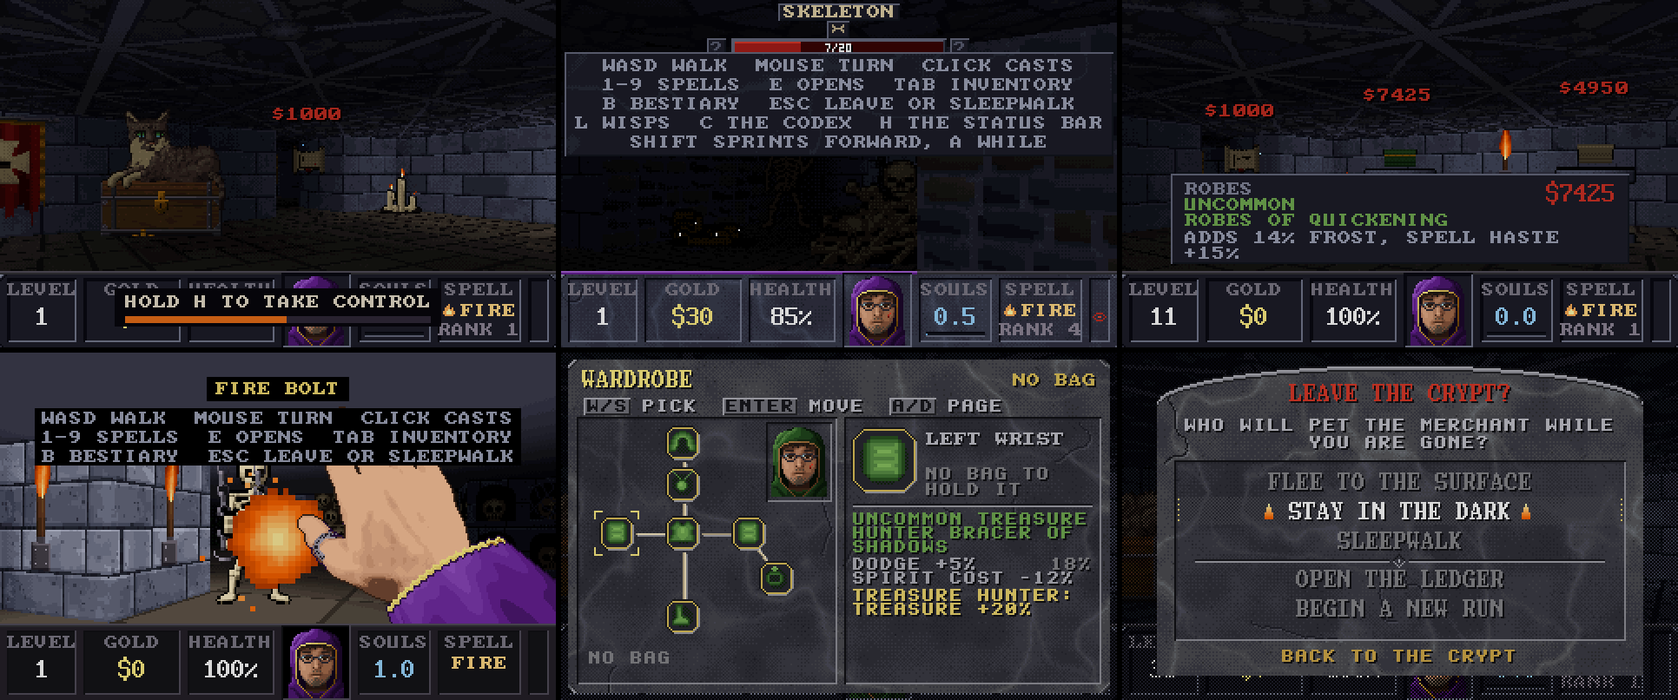
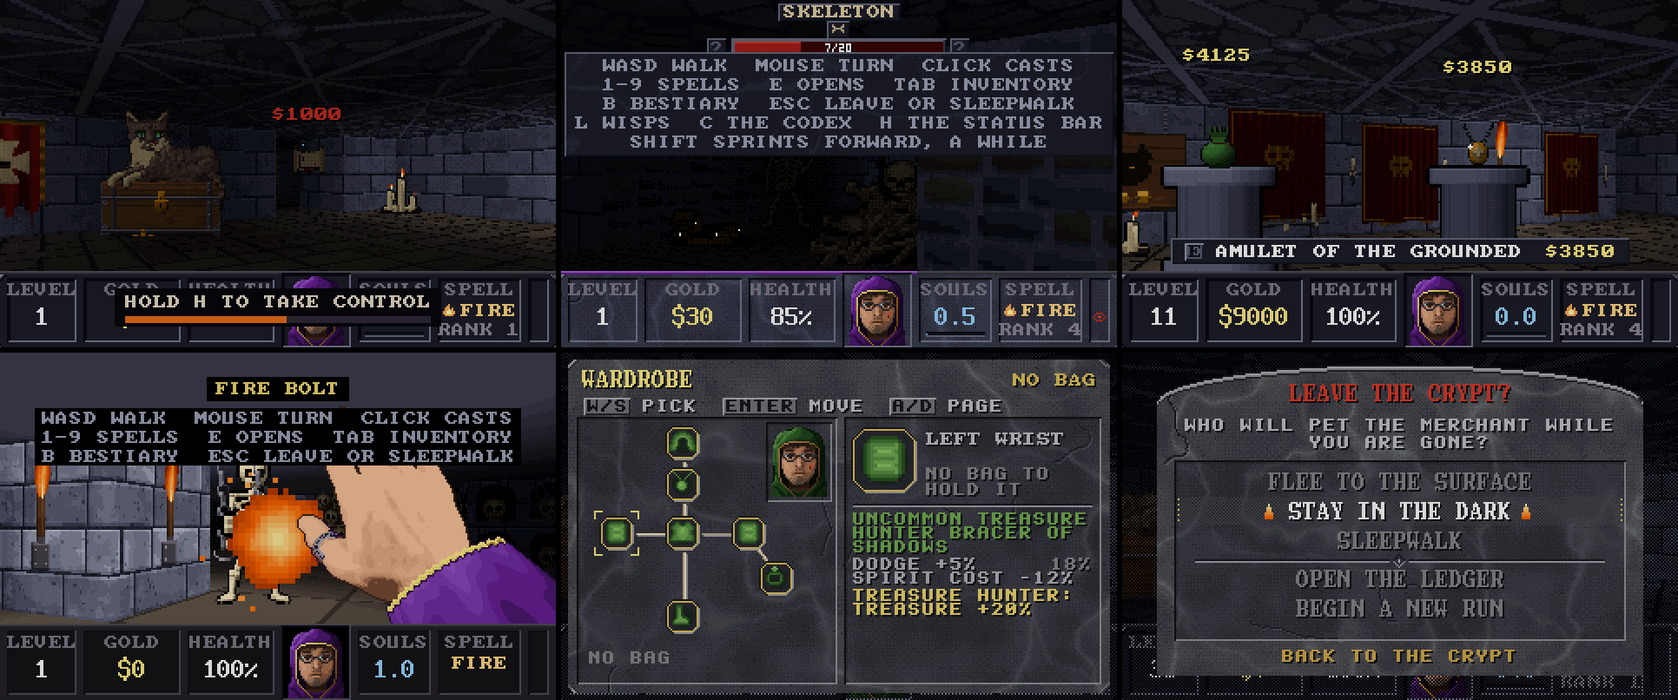
1.0.0b21.3: the release's words, strips and version
The README, the page and the release notes for "Her Wares, Weighed";
the frames that showed the old cards taken again (the items strip's
first, the shrine's first, the portraits' second, the play strip's
third); VERSION 1.0.0b21.3.

Claude-Session: https://claude.ai/code/session_017SN6xpMoV1Y5g6zBwL4B3X

diff --git a/site/index.html b/site/index.html
@@ -474,7 +474,7 @@ C:\&gt;<span id="cmd">HAUNTED.EXE</span><span class="cursor"></span></pre>
       <details>
         <summary>The merchant <span class="hint">two pedestals to seven</span></summary>
         <div class="fold">
-          <p>Each level begins in her room. A fresh run has two pedestals; more are bought from her menu, up to seven, and kept. She sells no spells now: every pedestal holds a thing to wear, and very rarely the first holds the BFS9000. One purchase a visit in the first run, two in the second, three from the third. A piece is worn the moment you buy it. You start without a bag; bags hold two to five spare pieces, and without one, what a new piece replaces is lost, so the card warns you first in red. With a full bag you are asked which spare to let go. <kbd>Q</kbd> holds a ware for your next visit. Runes aren't sold there.</p>
+          <p>Each level begins in her room. A fresh run has two pedestals; more are bought from her menu, up to seven, and kept. She sells no spells now: every pedestal holds a thing to wear, and very rarely the first holds the BFS9000. One purchase a visit in the first run, two in the second, three from the third. Walk up to a pedestal and its name and price show in a slim line at the foot of the view; <kbd>E</kbd> opens its buying: the ware, what you wear in its place now, each of your numbers it would change, now and after, the abilities gained and lost, and what becomes of the old piece. A piece is worn the moment you buy it. You start without a bag; bags hold two to five spare pieces, and without one, what a new piece replaces is lost, so the buying warns you in red and asks twice. With a full bag you are asked which spare to let go. <kbd>Q</kbd> holds a ware for your next visit, and <kbd>A</kbd> and <kbd>D</kbd> go round her other wares. Runes aren't sold there.</p>
         </div>
       </details>
       <details>
@@ -754,8 +754,8 @@ C:\&gt;<span id="cmd">HAUNTED.EXE</span><span class="cursor"></span></pre>
   <section aria-labelledby="hall">
     <h2 id="hall">The merchant's hall</h2>
     <p>Her room has grown. Past an arch beside her is a back room, past another the grave plot, and nothing in any of it is lost to death. Press <kbd>E</kbd> at the cat for her menu: sign the ledger, ascend, buy another pedestal (500 gold for the third, up to 19,530 for the seventh), offer a coin for Second Wind, pat her, or leave.</p>
-    <p><strong>The portraits of the slain</strong> <span class="hint">new in 1.0.0b21.2</span>. Her walls carry a portrait of every creature in the bestiary, the last third in the back room. Each hangs under an oxblood tapestry until one of its kind is slain; <kbd>E</kbd> draws it back, and the creature's shadow walks there. Each rank whose achievement you earn then walks in its colours on the stone of the run where you earned it, the frame takes the colour of the highest, and a candle lights each one. Every rank unlocked pays its gold once a life, at any visit to her room once a level is cleared, and again on waking after a death: from 100 to 1,200 a rank, 67,240 for her walls whole. The Spectre and the Wraith open theirs by being laid to rest and driven back, and every creature that can be slain has a feat (skeletons slain before they ever throw, the Sexton with his bell unrung, the Lightless with your lantern shuttered), hung as a gold medallion under its frame. The bosses' four hang two faces wide either side of the Accursed Portal, each in its arena, paying for its fall and each step of its challenge, up to 9,000.</p>
-    <figure><img src="img/preview_catacomb_portraits.png" loading="lazy" width="1932" height="806" alt="Six frames: her south wall with three portraits in blue frames, a wall skull, a shield-bearer and a shambler, each beside its candle with its tapestry tied back; the skeletons' portrait close up, its gold medallion under the frame, 6 OF 6 AND A FEAT, $1840 WAITS; the skeletons' card, each rank's gold waiting and the feat IT NEVER THREW; the bestiary's page for the skeleton showing its feat; the grave plot's far wall, the knight's and the spider's portraits beside the red-violet Portal; and the Ill-Fated Knight's card, its deeds and their gold"><figcaption>Her wall, a portrait with its medallion, its card, the bestiary's feat, the bosses by the Portal, and the knight's card.</figcaption></figure>
+    <p><strong>The portraits of the slain</strong> <span class="hint">new in 1.0.0b21.2</span>. Her walls carry a portrait of every creature in the bestiary, the last third in the back room. Each hangs under an oxblood tapestry until one of its kind is slain; <kbd>E</kbd> draws it back, and the creature's shadow walks there. Each rank whose achievement you earn then walks in its colours on the stone of the run where you earned it, the frame takes the colour of the highest, and a candle lights each one, cold until one of its kind is slain, so a lit candle beside a tapestry still hung shows there is one to draw back. Every rank unlocked pays its gold once a life, at any visit to her room once a level is cleared, and again on waking after a death: from 100 to 1,200 a rank, 67,240 for her walls whole. The Spectre and the Wraith open theirs by being laid to rest and driven back, and every creature that can be slain has a feat (skeletons slain before they ever throw, the Sexton with his bell unrung, the Lightless with your lantern shuttered), hung as a gold medallion under its frame. The bosses' four hang two faces wide either side of the Accursed Portal, each in its arena, paying for its fall and each step of its challenge, up to 9,000.</p>
+    <figure><img src="img/preview_catacomb_portraits.png" loading="lazy" width="1932" height="806" alt="Six frames: her south wall with three portraits in blue frames, a wall skull, a shield-bearer and a shambler, each beside its candle with its tapestry tied back; the skeletons' portrait close up beside its candle, its gold medallion under the frame, and at the foot of the view a slim prompt, E, SKELETONS, $1840 WAITS; the skeletons' card, each rank's gold waiting and the feat IT NEVER THREW; the bestiary's page for the skeleton showing its feat; the grave plot's far wall, the knight's and the spider's portraits beside the red-violet Portal; and the Ill-Fated Knight's card, its deeds and their gold"><figcaption>Her wall, a portrait with its medallion, its card, the bestiary's feat, the bosses by the Portal, and the knight's card.</figcaption></figure>
     <div class="folds" data-folds>
       <details>
         <summary>The Hexed Totem <span class="hint">the bosses' gifts</span></summary>
@@ -1079,7 +1079,7 @@ C:\&gt;<span id="cmd">HAUNTED.EXE</span><span class="cursor"></span></pre>
             <figcaption>Severance: the doorway from the crypt, a white hall, a ward door, an office, a skeleton under the panels, and the water cooler.</figcaption>
           </figure>
           <figure>
-            <img src="img/preview_catacomb_shrine.png" loading="lazy" width="1932" height="806" alt="Six frames: the Rune Shrine, a pale stone with a gold ring and cross, sanctified, with E: CURSE IT WITH A CURSED COIN; its screen in marble, nine slots cut as cups, cursed and giving Uncommon runes; the runes of a pull coming into the slots; the caster's page with its totals and the runes held; A CURSED COIN AT THE END OF A CHAIN sliding in for the shrine; and the Black Altar's three gifts on a tablet, WAKE ITS WISP for 10 souls">
+            <img src="img/preview_catacomb_shrine.png" loading="lazy" width="1932" height="806" alt="Six frames: the Rune Shrine, a pale stone with a gold ring and cross between its candles, its prompt at the foot of the view, E, THE RUNE SHRINE, SANCTIFIED; its screen in marble, nine slots cut as cups, cursed and giving Uncommon runes; the runes of a pull coming into the slots; the caster's page with its totals and the runes held; A CURSED COIN AT THE END OF A CHAIN sliding in for the shrine; and the Black Altar's three gifts on a tablet, WAKE ITS WISP for 10 souls">
             <figcaption>The Rune Shrine sanctified and its screen, a pull's runes coming in, the caster's totals and runes, a coin found, and the altar's gifts.</figcaption>
           </figure>
           <figure>
@@ -1095,11 +1095,11 @@ C:\&gt;<span id="cmd">HAUNTED.EXE</span><span class="cursor"></span></pre>
             <figcaption>The wisps, a key's wisp and the Black Altar's gifts; a blessed wisp at the way out.</figcaption>
           </figure>
           <figure>
-            <img src="img/preview_catacomb_play.png" loading="lazy" width="1932" height="806" alt="Six frames of CATACOMB played by hand: the HOLD H TO TAKE CONTROL bar in the merchant's room; the controls listed on a band of stone over a skeleton's health; the merchant's card for Uncommon Robes of Quickening at 7,425 gold, on a band of stone; a fireball leaving the hand and bursting on a skeleton; the wardrobe as sockets on a carved figure, a bracer chosen and its card in the pane; and the LEAVE THE CRYPT? headstone, OPEN THE LEDGER below the rule">
+            <img src="img/preview_catacomb_play.png" loading="lazy" width="1932" height="806" alt="Six frames of CATACOMB played by hand: the HOLD H TO TAKE CONTROL bar in the merchant's room; the controls listed on a band of stone over a skeleton's health; a person at her pedestals, the prompt at the foot of the view, E, AMULET OF THE GROUNDED, $3850; a fireball leaving the hand and bursting on a skeleton; the wardrobe as sockets on a carved figure, a bracer chosen and its card in the pane; and the LEAVE THE CRYPT? headstone, OPEN THE LEDGER below the rule">
             <figcaption>Taking over, shopping, casting, the wardrobe and the question at Esc.</figcaption>
           </figure>
           <figure>
-            <img src="img/preview_catacomb_items.png" loading="lazy" width="1932" height="806" alt="Six frames of CATACOMB's wares: the merchant's card for an Anointed Exquisite Communing Hood of the Bulwark in gold; the caster's page of totals in a well of marble, with what abilities add and the runes held; THE BAG IS FULL, the bag's places and a spare's card in wells; a spectre and a shield-bearer shown as red shapes through the wall by Commune; a Black Altar woken, a violet flame in its bowl and its violet wisp's motes going off down the hall; and the altar burning gold">
+            <img src="img/preview_catacomb_items.png" loading="lazy" width="1932" height="806" alt="Six frames of CATACOMB's wares: the buying of a Rare Communing Amulet of the Hearth for 15,490 gold, carved in marble: its stats and Commune's words, the amulet worn now, and what changes, Commune gained, the burn and slow wards up and lightning's down, the old amulet going into the bag; the caster's page of totals in a well of marble, with what abilities add and the runes held; THE BAG IS FULL, the bag's places and a spare's card in wells; a spectre and a shield-bearer shown as red shapes through the wall by Commune; a Black Altar woken, a violet flame in its bowl and its violet wisp's motes going off down the hall; and the altar burning gold">
             <figcaption>An Exquisite hood, the caster's totals, a full bag, Commune, and a Black Altar woken and burning gold.</figcaption>
           </figure>
           <figure>
@@ -1140,7 +1140,7 @@ C:\&gt;<span id="cmd">HAUNTED.EXE</span><span class="cursor"></span></pre>
       <p class="warn">Unsigned file: if SmartScreen stops it, choose More info, then Run anyway.</p>
       <div class="foot">F1=Help  Esc=Cancel</div>
     </div>
-    <p><strong>Upgrading from an earlier beta:</strong> your settings and saves carry over. The twenty-first's second point release, 1.0.0b21.2, adds the portraits (the tapestries drawn back, where each rank was earned, the gold taken this life and the feats' counts) to each page of the ledger, which 1.0.0b21.1 steps over; achievements earned stay earned. Its first, 1.0.0b21.1, adds a byte to the controller's settings for which title screen came last, which earlier betas ignore. The twenty-first adds the augments you have chosen and their credits to each page of the ledger, which earlier betas step over; the twentieth also reads a piece with one of the twenty-first's new stats or a class's own ability as nothing, so going back would lose such pieces. The twentieth (as its point release, 1.0.0b19.1, did) undoes the lines your points bought at the merchant as a page is read and gives every point back to confess, and your overlevels to choose again; the nineteenth reads such a page without the Confessions, and a page it signs loses them. The nineteenth changes nothing in the saves, and keeps your controller's layout with the settings, which earlier betas read as its sprint button alone. The eighteenth adds the dead's ways you have met and your deeds against them to each page of the ledger, which earlier betas step over. The seventeenth changes nothing in them. The sixteenth keeps the Lampstand's gifts on each page, which the fifteenth steps over; a page's caster keeps every line it paid for, but no longer has the fireball for nothing. The fifteenth changes nothing in the saves and adds two settings, Music and Effects, which earlier betas ignore. The ninth adds the map and your Levels of Atonement to each page of the ledger; the seventh and eighth betas step over that part, so they can still read its pages, without those. From the sixth, its graves open as pages of the ledger and its last progress as the unsigned run; sign it at the merchant's to keep it on a page. Saves from the seventh beta on can't be read by the sixth or earlier, so if you might go back that far, keep a copy first: <code>reg export HKCU\Software\HalloweenVGASaver haunted-backup.reg</code>. Double-click the file to restore it.</p>
+    <p><strong>Upgrading from an earlier beta:</strong> your settings and saves carry over. The twenty-first's third point release, 1.0.0b21.3, changes nothing in them. Its second point release, 1.0.0b21.2, adds the portraits (the tapestries drawn back, where each rank was earned, the gold taken this life and the feats' counts) to each page of the ledger, which 1.0.0b21.1 steps over; achievements earned stay earned. Its first, 1.0.0b21.1, adds a byte to the controller's settings for which title screen came last, which earlier betas ignore. The twenty-first adds the augments you have chosen and their credits to each page of the ledger, which earlier betas step over; the twentieth also reads a piece with one of the twenty-first's new stats or a class's own ability as nothing, so going back would lose such pieces. The twentieth (as its point release, 1.0.0b19.1, did) undoes the lines your points bought at the merchant as a page is read and gives every point back to confess, and your overlevels to choose again; the nineteenth reads such a page without the Confessions, and a page it signs loses them. The nineteenth changes nothing in the saves, and keeps your controller's layout with the settings, which earlier betas read as its sprint button alone. The eighteenth adds the dead's ways you have met and your deeds against them to each page of the ledger, which earlier betas step over. The seventeenth changes nothing in them. The sixteenth keeps the Lampstand's gifts on each page, which the fifteenth steps over; a page's caster keeps every line it paid for, but no longer has the fireball for nothing. The fifteenth changes nothing in the saves and adds two settings, Music and Effects, which earlier betas ignore. The ninth adds the map and your Levels of Atonement to each page of the ledger; the seventh and eighth betas step over that part, so they can still read its pages, without those. From the sixth, its graves open as pages of the ledger and its last progress as the unsigned run; sign it at the merchant's to keep it on a page. Saves from the seventh beta on can't be read by the sixth or earlier, so if you might go back that far, keep a copy first: <code>reg export HKCU\Software\HalloweenVGASaver haunted-backup.reg</code>. Double-click the file to restore it.</p>
     <p>HAUNT.EXE's file manager shows your Windows user name and today's date. Keep that in mind before you share a recording. <code>capture.cmd</code> in the zip runs it as an ordinary window that OBS or Xbox Game Bar can record.</p>
   </section>
 
@@ -1160,7 +1160,7 @@ make smoke    # both scenes and a scripted player in the test harness</pre>
 
   <section aria-labelledby="beta">
     <h2 id="beta">Beta status</h2>
-    <p>This is the twenty-first beta's second point release, 1.0.0b21.2, "The Portraits of the Slain". The third was played by hand on the author's own Windows PC, on top of the automated tests, as were the ones before it. The fourth added things to wear rolled like loot, spirit and bones and the Black Altars; the fifth wisps that fly through the crypt and the status bar that steps aside; the sixth chains of secrets into the Backrooms and Severance and the Rune Shrine; the seventh, the biggest change the game has had, runs of ten levels with four bosses, death that costs, the merchant's ledger and her hall; the eighth a game controller; the ninth the map, the target's health, and Levels of Atonement with their cornerstones; the tenth a look of its own for each run of ten; the eleventh changed how the caster grows: spells as six elemental lines bought at the Lampstand, what the caster was, gear that rolls the elements, and souls that can run dry; the twelfth a new run from Esc, so that a person chooses what they were. The thirteenth gave each run hazards of its own, puzzles behind a sealed wing with their answers hidden on the level, trials against an hourglass, and a reckoning before you leave. The fourteenth drew every creature again by hand, taught the dead to think, gave the caster a sprint and places to mend, and cut every screen in stone. The fifteenth gave each run its own music, the merchant hers and the menus a lullaby, with a fight that grows and a heartbeat when you are failing. The sixteenth begins each caster with its own line alone and gives two more at the Lampstand, sets things in the crypt that want a spell, wards some creatures against a line, and puts the Mirror rune in your hand. The seventeenth keeps a watch on the quiet stretches, and offers a person something when one runs long. The eighteenth shows the dead's ways: their backs, the roost, the ambushes' signs by run, a name for each tactic and a page in the Codex. This one gives every element a mark of its own, on you and on the dead, makes every creature weak to one element and strong against another, and teaches the commonest of them new attacks; it also mends a trial's door that could shut on you, hangs a lamp against the Wraith by each challenge, and lets you lay out the controller yourself. This one puts the Unholy Confessions in place of the old lines and gives each class health, stats, a strength, a weakness and caps of its own (its point release, 1.0.0b19.1, brought them early); the screensaver finds the early levels harder for it. The twenty-first gives each spell line six augments, a pair at each of its great steps, earned by using it, and leans the merchant's wares to the lines you hold and your class; the screensaver, choosing its augments at random, finds the early levels harder again. Its point release, 1.0.0b21.1, puts a title screen in front of the crypt and new music in her hall, the first two runs and the Lampstand; this one, 1.0.0b21.2, hangs a portrait of every creature on her walls, paying for what you have slain once a life, with a feat for each and the bosses' four by the Portal, and asks fewer kills for each rank's achievement. Nothing from the fourth beta on has been played by hand yet, and the seventh to the twenty-first haven't been run under Wine either: they have been tested in the harness, and the Windows build compiled and smoke-tested by GitHub Actions.</p>
+    <p>This is the twenty-first beta's third point release, 1.0.0b21.3, "Her Wares, Weighed". The third was played by hand on the author's own Windows PC, on top of the automated tests, as were the ones before it. The fourth added things to wear rolled like loot, spirit and bones and the Black Altars; the fifth wisps that fly through the crypt and the status bar that steps aside; the sixth chains of secrets into the Backrooms and Severance and the Rune Shrine; the seventh, the biggest change the game has had, runs of ten levels with four bosses, death that costs, the merchant's ledger and her hall; the eighth a game controller; the ninth the map, the target's health, and Levels of Atonement with their cornerstones; the tenth a look of its own for each run of ten; the eleventh changed how the caster grows: spells as six elemental lines bought at the Lampstand, what the caster was, gear that rolls the elements, and souls that can run dry; the twelfth a new run from Esc, so that a person chooses what they were. The thirteenth gave each run hazards of its own, puzzles behind a sealed wing with their answers hidden on the level, trials against an hourglass, and a reckoning before you leave. The fourteenth drew every creature again by hand, taught the dead to think, gave the caster a sprint and places to mend, and cut every screen in stone. The fifteenth gave each run its own music, the merchant hers and the menus a lullaby, with a fight that grows and a heartbeat when you are failing. The sixteenth begins each caster with its own line alone and gives two more at the Lampstand, sets things in the crypt that want a spell, wards some creatures against a line, and puts the Mirror rune in your hand. The seventeenth keeps a watch on the quiet stretches, and offers a person something when one runs long. The eighteenth shows the dead's ways: their backs, the roost, the ambushes' signs by run, a name for each tactic and a page in the Codex. This one gives every element a mark of its own, on you and on the dead, makes every creature weak to one element and strong against another, and teaches the commonest of them new attacks; it also mends a trial's door that could shut on you, hangs a lamp against the Wraith by each challenge, and lets you lay out the controller yourself. This one puts the Unholy Confessions in place of the old lines and gives each class health, stats, a strength, a weakness and caps of its own (its point release, 1.0.0b19.1, brought them early); the screensaver finds the early levels harder for it. The twenty-first gives each spell line six augments, a pair at each of its great steps, earned by using it, and leans the merchant's wares to the lines you hold and your class; the screensaver, choosing its augments at random, finds the early levels harder again. Its point release, 1.0.0b21.1, puts a title screen in front of the crypt and new music in her hall, the first two runs and the Lampstand; the second, 1.0.0b21.2, hangs a portrait of every creature on her walls, paying for what you have slain once a life, with a feat for each and the bosses' four by the Portal, and asks fewer kills for each rank's achievement; and this one, 1.0.0b21.3, lights a portrait's candles only once its tapestry can be drawn back, puts a slim prompt in place of the cards that covered her rooms, and opens a ware's buying on a screen of its own that shows what it would change. Nothing from the fourth beta on has been played by hand yet, and the seventh to the twenty-first haven't been run under Wine either: they have been tested in the harness, and the Windows build compiled and smoke-tested by GitHub Actions.</p>
     <div class="folds">
       <details>
         <summary>What has been tested, and how <span class="hint">area by area</span></summary>
@@ -1169,6 +1169,7 @@ make smoke    # both scenes and a scripted player in the test harness</pre>
       <table>
         <thead><tr><th>Area</th><th>Evidence</th><th>Confidence</th></tr></thead>
         <tbody>
+          <tr><td>Her rooms' prompts and a ware's buying</td><td>In the test harness, by keys and by a scripted controller: the prompt for everything in her rooms; a ware's buying opened at a pedestal and at the map, gone round the wares, a piece bought with a bag and without one (warned, then bought), a ware held, a bag bought, too little gold. A portrait's candles cold until its tapestry can be drawn back, and lit after. The autopilot logged the same events as on 1.0.0b21.1 on the same seed, line for line. Clean under AddressSanitizer. Not yet played by hand.</td><td><span class="tag low">LOW</span></td></tr>
           <tr><td>The portraits of the slain</td><td>In the test harness: every portrait's gold taken in turn by a scripted person, 175,240 in all, matching the numbers settled with the author row for row; a portrait's gold taken, a death in the next level, and on the page it wrote the gold waiting again and paid again; the feats counted in the autopilot's play from levels 1, 11, 21 and 31, eleven of the twenty-two seen. The autopilot logged the same events as on 1.0.0b21.1 on the same seed, line for line, so nothing in play moved. Clean under AddressSanitizer. Frames in her room 2.5 to 3 ms (2 ms before); facing the bosses' four, 3.1 ms. The portraits, the medallion and the knight's portrait approved by the author as mock-ups first. Not yet played by hand.</td><td><span class="tag low">LOW</span></td></tr>
           <tr><td>The title screen, and the music in her hall, the first two runs and the Lampstand</td><td>The title driven by a scripted person in the test harness, with the keys and with a scripted controller, down every path: the prompt, the menu, the controls, help, the graves (an empty page, and a page signed at the merchant's raised), a new run, the three scenes in turn from one start to the next, and the screen given back to the screensaver after a minute and a half untouched. Clean under AddressSanitizer. A title frame takes 8 to 14 ms to draw on the test machine. The scenes, the graves and the menu approved by the author as mock-ups first. The music tested in the harness. Not yet played by hand.</td><td><span class="tag low">LOW</span></td></tr>
           <tr><td>The spells' augments and the merchant by what you hold</td><td>Fire's six in the autopilot's play and five of them in a scripted person's; the other lines' forced on every pair; chosen at the Lampstand by a scripted person, signed onto a page and read back. With the augments and the merchant by class both switched out, the autopilot played the twentieth beta exactly, event for event. Weighed against the twentieth on sixteen seeds for each of five classes: 485 levels cleared and 158 deaths against 504 and 117, a third more, on levels 1 to 7; most of it is the autopilot drawing at random an opening that takes from its one early spell (Firecracker, Siphon), and it is kept at the author's word, since a person chooses their own. From level 31 nothing moved. Every run that reached Level of Atonement 18 had earned its class's line all nine ranks. The slots and every line's augments approved by the author on sheets first. Not yet played by hand.</td><td><span class="tag low">LOW</span></td></tr>

diff --git a/README.md b/README.md
@@ -62,14 +62,14 @@ Two scenes are included. They alternate every few minutes (configurable) with a 
 ![CATACOMB's hall: the Accursed Portal in the grave plot's ashlar and its screen, the Hexed Totem, the Corpus Compendium, the Wretched Repository and the Codex of Affixations](docs/preview_catacomb_hall.png)
 ![CATACOMB's Backrooms: a chained room's doorway from the crypt, a corridor under the tubes, a leak, a candlestand hanging from the ceiling, a shambler caught in a loop, and the visportal at a chain's end](docs/preview_catacomb_backrooms.png)
 ![CATACOMB's Severance: the doorway from the crypt, a white hall, a ward door, an office's desks, a skeleton under the panels, and the water cooler at a chain's end](docs/preview_catacomb_severance.png)
-![CATACOMB's Rune Shrine: the shrine in the merchant's room, its screen, a pull's runes coming in, the caster's totals and runes, a Cursed Coin found, and the Black Altar's gifts](docs/preview_catacomb_shrine.png)
+![CATACOMB's Rune Shrine: the shrine in the merchant's room with its prompt, its screen, a pull's runes coming in, the caster's totals and runes, a Cursed Coin found, and the Black Altar's gifts](docs/preview_catacomb_shrine.png)
 ![CATACOMB: the new creatures in the crypt, from the shambler to the gargoyle](docs/preview_catacomb_creatures.png)
 ![CATACOMB: an achievement, the bestiary's pages and the achievements list](docs/preview_catacomb_bestiary.png)
 ![CATACOMB: the merchant in her hall of ashlar, her wares, a burial vault, an ossuary, Fire Bolts at a spectre and a skeleton, a chapter house, and the caster's portrait after a hit](docs/preview_catacomb.png)
 ![CATACOMB: a chandelier over an ossuary's bone walls, a hoard with a crown, a vault strapped in gold, a cracked wall pressed and the secret behind it, and the rune-sealed exit with a wisp before it](docs/preview_catacomb_crypt.png)
 ![CATACOMB's wisps: the L list, a wisp kindling for the silver key, an exit wisp's trail down a hall, the Black Altar's gifts, a skeleton by a blessed wisp's trail, and the blessed wisp waiting at the way out](docs/preview_catacomb_wisps.png)
-![CATACOMB played by hand: holding H, the controls, shopping, casting, the wardrobe and the question at Esc](docs/preview_catacomb_play.png)
-![CATACOMB's wares: an Exquisite hood at the merchant, the caster's numbers, a full bag, Commune's red shapes through the wall, and a Black Altar woken and burning gold](docs/preview_catacomb_items.png)
+![CATACOMB played by hand: holding H, the controls, a ware's prompt at her pedestals, casting, the wardrobe and the question at Esc](docs/preview_catacomb_play.png)
+![CATACOMB's wares: a Rare amulet's buying at the merchant, what it changes, the caster's numbers, a full bag, Commune's red shapes through the wall, and a Black Altar woken and burning gold](docs/preview_catacomb_items.png)
 ![HAUNT.EXE: the jack-o'-lantern and the skull](docs/preview_haunt_art.png)
 ![HAUNT.EXE: the haunted programs](docs/preview_haunt_text.png)
 ![HAUNT.EXE: the other art scenes](docs/preview_haunt.png)
@@ -439,7 +439,8 @@ back room. Each hangs under an oxblood tapestry until one of its kind is slain; 
 side for good, and behind it the creature's shadow walks on the spot. Each rank whose achievement is earned shows it there in that
 rank's colours, standing on the stone of the run where it was earned, the ranks taking turns; the frame takes the colour of the highest
 (bone, green, blue, red, gold for the gilded, black for rank V), and a gem in its foot lights for each. A candle lights each one, in
-one of seven ways, so no two neighbours are alike.
+one of seven ways, so no two neighbours are alike. Since 1.0.0b21.3 the candles stay cold until one of its kind is slain, and burn for good
+after, so a lit candle beside a tapestry still hung means there is one to draw back.
 
 Every rank unlocked **pays its gold once a life**, at any visit to her room once a level has been cleared in that life, or on waking
 after a death that costs, when every portrait's gold is owed again. A gem whose gold waits twinkles. E at a portrait opens its card:
@@ -982,14 +983,20 @@ in an arched niche; Esc's question and the cards are headstones and the tally a 
 status bar and every word over the crypt are set in the run's own stone in place of black boxes.
 
 Your defensive runes still fire on their own, as quickly (and as fallibly) as they do for the
-autopilot. In the merchant's room you shop yourself: walk up to a pedestal to see its card, and press
-E, Space or click to buy it, as many times as the visit allows. A piece is worn at once. If it takes
-the place of one you wear and you have no bag, the card warns in red that the old one will be lost,
-and a second E buys; if your bag is full, you are asked which spare to let go (Esc thinks better of
-it). **Q** holds a ware for the next visit, for a quarter of its price: it comes back on its pedestal
-at the price it showed, and the hold ends when you leave the room the next time, bought or not. One
-ware is held at a time. E at the cat herself opens her menu, where you sign the ledger, ascend and buy
-pedestals. Then leave by the east door.
+autopilot. In the merchant's room you shop yourself. Since 1.0.0b21.3, whatever you face in her rooms
+shows only as a slim line at the foot of the view, its key on a cap, what it is and a word more where
+one helps (a ware's price, gold waiting on a portrait, a gift at the Lampstand), so the thing itself
+stays in sight; its card or menu comes up on the key. Walk up to a pedestal and press E, Space or
+click, and its **buying** opens: the ware and its price, what you wear in its place now, each of your
+numbers it would change, now and after (green where it rises, red where it falls), the abilities gained
+and lost, and what becomes of the old piece. E buys it, as many times as the visit allows; A and D go
+round her other wares and the map. A piece is worn at once. If it takes the place of one you wear and
+you have no bag, the buying warns in red that the old one will be lost, and a second E buys; if your
+bag is full, you are asked which spare to let go (Esc thinks better of it). **Q** holds a ware for the
+next visit, for a quarter of its price, from its buying or from the pedestal: it comes back on its
+pedestal at the price it showed, and the hold ends when you leave the room the next time, bought or
+not. One ware is held at a time. E at the cat herself opens her menu, where you sign the ledger,
+ascend and buy pedestals. Then leave by the east door.
 
 The Wolfenstein status bar shows the level, gold, health, your face, your spirit (the souls, to a
 tenth), the spell in hand, with the bones above it when the spear is in hand, and your keys. Five seconds
@@ -1076,7 +1083,7 @@ became HAUNTED.EXE, kept so that settings and saves carry over), `Progress` besi
 start from or holds the unsigned run, and `Mark` is the dead's watch; `uninstall.cmd` removes them with
 the settings. They are written the moment the game changes them, and never on quitting.
 
-**1.0.0b21.2 adds the portraits** (which tapestries are drawn back, where each rank was earned, the gold taken this life, and the
+**1.0.0b21.3 changes nothing in the saves.** **1.0.0b21.2 adds the portraits** (which tapestries are drawn back, where each rank was earned, the gold taken this life, and the
 feats' counts) to each page; 1.0.0b21.1 steps over them, and a page it signs loses them. Achievements earned stay earned.
 
 **1.0.0b21 adds the augments** you have chosen and their credits to each page; 1.0.0b20 steps over them, and a page it
@@ -1310,6 +1317,20 @@ controller's motors as `RUMBLE` lines.
 The Windows build honours `HVS_NOGL=1` (force the GDI path) and `HVS_DUMP=file.ppm` (write one frame and exit).
 
 ## What has been verified
+
+**New in 1.0.0b21.3** (her rooms after the author's first look at 1.0.0b21.2: a portrait's candles cold until its tapestry can be drawn
+back, the room's urn moved off the skeletons' portrait, a slim prompt in place of the cards in her rooms, and a ware's buying on a screen
+of its own). Tested in the harness only: not yet played by hand, run on Windows or seen on a real screen.
+
+* **Nothing in play moved**: the screensaver from level 1 for 2,400 seconds logged the same as 1.0.0b21.1 and 1.0.0b21.2 on the same
+  seed, line for line. The candles use none of the game's dice.
+* **The buying**: by keys and by a scripted controller: opened at a pedestal and at the map, gone round the wares, a piece bought with a
+  bag and without one (warned, then bought on the second press), a ware held, a bag bought, too little gold. The numbers it shows come
+  from the caster's own totals with the piece worn in a copy of the gear, so they are the numbers Tab's pages would show after.
+* **Two faults mended on the way**: the shrine's, the Totem's and the Compendium's passing words came out blank in the harness (printed
+  into themselves; on Windows, unknown), and a controller's hints showed *ESC BACK* as *B X*.
+* **Memory safety** (AddressSanitizer): the buying by keys and controller, and the screensaver for 1,500 seconds: clean. The smoke test
+  passes, and the Windows and browser builds were compiled and smoke-tested by GitHub Actions.
 
 **New in 1.0.0b21.2** (the portraits of the slain: a portrait a creature on her walls, their gold once a life, the Spectre's and the
 Wraith's achievements, a feat for each creature, the bosses' four by the Portal; the kills each rank's achievement asks lowered). Tested

diff --git a/.github/release-notes.md b/.github/release-notes.md
@@ -1,25 +1,26 @@
-The Portraits of the Slain: the second point release of the twenty-first beta of **HAUNTED.EXE**, a Halloween screensaver for Windows in real VGA modes: a possessed 486 PC (HAUNT.EXE) and a Wolfenstein-style crypt crawl (CATACOMB) that you can take over and play by holding **H**, or any button on a game controller, for three seconds.
+Her Wares, Weighed: the third point release of the twenty-first beta of **HAUNTED.EXE**, a Halloween screensaver for Windows in real VGA modes: a possessed 486 PC (HAUNT.EXE) and a Wolfenstein-style crypt crawl (CATACOMB) that you can take over and play by holding **H**, or any button on a game controller, for three seconds.
 
-It hangs a portrait of every creature you have slain on the merchant's walls, and pays you for them.
+It mends her rooms after a first look at the portraits: the candles say where to look, and her wares no longer hide the room.
 
 ### Before you upgrade
 
-Your saves and settings carry over. This release adds the portraits to each page of the ledger: which tapestries are drawn back, where each rank was earned, the gold taken this life, and the feats' counts. 1.0.0b21.1 steps over them, and a page it signs loses them. The achievements for kills now ask fewer (below); any your record already reaches are earned as a page is read, under one pop-up, and achievements earned stay earned.
+Your saves and settings carry over. Nothing in the saves has changed since 1.0.0b21.2.
 
 ### New in this release
 
-**The portraits of the slain.** Her walls carry a portrait of every creature in the bestiary: the first two thirds in her room, the last in the back room with the Totem.
-- Each hangs under an oxblood tapestry until one of its kind is slain. Then **E** draws the tapestry back, to be tied at the side for good, and behind it the creature's shadow walks on the spot.
-- Each rank whose achievement you earn then walks there in that rank's colours, on the stone of the run where you earned it, the ranks taking turns. The frame takes the colour of the highest: bone, green, blue, red, gold for the gilded, black for rank V. A gem in its foot lights for each rank, and a candle lights each portrait, set seven different ways.
-- **Every rank unlocked pays its gold once a life**, at any visit to her room once a level has been cleared in that life, and again on waking after a death that costs. A gem whose gold waits twinkles. **E** at a portrait opens its card: each rank, slain against what it asks, its gold, and whether it is taken, waits or is still to come. **E** takes all that waits, and **A** and **D** go through the rest. A rank pays from 100 to 1,200 gold, by the creature, its rank and its strength.
-- **The Spectre and the Wraith**, which can't be slain, open theirs too: the Spectre laid to rest by Spirit 5, 15 and 40 times, the Wraith driven back 10, 40 and 100 times.
-- **A feat for each creature that can be slain**, an achievement of its own, hung as a gold medallion under its frame and paying as its rank III does. Some of them: skeletons slain before they ever throw, wall skulls silenced before their scream goes out, web spiders still in their webs, knights still in full plate, ghouls at their meal, gargoyles as they wake, the Sexton with his bell unrung, the Lightless with your lantern shuttered. In the bestiary, **W** and **S** go past a creature's ranks to its feat.
-- **The bosses' four** hang in the grave plot, two faces wide, either side of the Accursed Portal, each in its own arena under two tapestries until it has fallen. They pay for the fall and for each step of its challenge, from 1,500 for the knight's fall to 9,000 for the Wraith Unbound's fifth step.
+**The portraits' candles stay cold until there is something to see.** A portrait's candles are unlit until one of its kind is slain and its tapestry can be drawn back, and burn for good after. A lit candle beside a tapestry still hung means there is one to draw back. The urn that stood in front of the skeletons' portrait, hiding its candle, now stands by the way on.
 
-Everything on the walls together comes to 175,240 gold a life. The screensaver draws a tapestry back now and then, but takes no gold.
+**A slim prompt in place of the cards in her rooms.** Whatever you face in her rooms shows only as one line at the foot of the view: the key, what it is, and a word more where one helps (a ware's price, gold waiting on a portrait, a gift at the Lampstand). Its card or menu comes up on the key, so the thing itself stays in sight.
 
-**Fewer kills for each rank's achievement.** 20 of a creature's lowest rank, then 25, 20, 15 and 10, and 5 gilded (it was 60, 40, 25, 15, 8 and 3).
+**A ware's buying, on a screen of its own.** **E** at a pedestal, or at the map, opens it:
+- the ware and its price, and what you wear in its place now;
+- each of your numbers it would change, now and after, green where it rises and red where it falls, with the abilities gained and lost first;
+- what becomes of the old piece: into your bag, lost if you have no bag (then it asks twice), or, with a full bag, which spare to let go.
+
+**E** buys, **Q** holds it for your next visit, **A** and **D** go round her other wares and the map, and **Esc** closes it. On a controller: **A** buys, **Y** holds, the bumpers go round, **B** closes.
+
+**Two smaller fixes.** The Rune Shrine's, the Totem's and the Compendium's passing words could come up blank. On a controller, the hint for going back read *B X*; it reads *B BACK*.
 
 ### What has been tested
 
-All of it in the test harness: every portrait's gold taken in turn, matching the numbers settled for it row for row; gold taken, a death, and the gold owed again on waking; the feats counted in the screensaver's own play, eleven of the twenty-two seen there; and the screensaver's runs unchanged, event for event, against 1.0.0b21.1. Checked with AddressSanitizer. The Windows and browser builds were compiled and smoke-tested by GitHub Actions. None of it has been played by hand or run on Windows yet. With the portraits in view, a frame in her room takes about a millisecond longer to draw on the test machine.
+All of it in the test harness: the prompts, the buying by keys and by a scripted controller (bought with a bag and without one, held, a bag bought, too little gold), and the candles cold and lit; the screensaver's own runs unchanged, event for event, against 1.0.0b21.2. Checked with AddressSanitizer. The Windows and browser builds were compiled and smoke-tested by GitHub Actions. None of it has been played by hand or run on Windows yet.

diff --git a/CLAUDE.md b/CLAUDE.md
@@ -7,7 +7,7 @@ text mode (720x400), and **CATACOMB**, a Catacomb 3-D / Wolfenstein-style crypt 
 seconds. Everything is generated by the code: art, textures, music and effects (the caster's hand and
 face and the cat merchant were traced from the owner's photographs).
 
-Current release: **1.0.0b21.2**, "The Portraits of the Slain" (pre-release, November 2026). Project page:
+Current release: **1.0.0b21.3**, "Her Wares, Weighed" (pre-release, November 2026). Project page:
 https://aspdesignlabs.github.io/HAUNTED.EXE/ · repo: `ASPDesignLabs/HAUNTED.EXE`.
 
 **1.0.0b18.1** was planned as an update of its own at the owner's word (7 November), in
@@ -333,8 +333,10 @@ commit, harness only (CI compiled and smoke-tested the Windows and browser build
 by `tools/portraitmock.c` (`make build/portraitmock`); the settled numbers are `docs/portraits/ranks.csv` and `bosses.csv`, written by
 `tools/portrait_sheet.py` from `KINDS`.
 
-**After 1.0.0b21.2**, from the owner's first look (10 November; on `claude/adoring-hopper-h9ivcg` with main at 1.0.0b21.2 merged in,
-unreleased, harness only). *The candles* (they could not find the skeletons' portrait): a portrait's candles are cold till its tapestry
+**1.0.0b21.3, "Her Wares, Weighed"**, from the owner's first look at 1.0.0b21.2 (10 November; on `claude/adoring-hopper-h9ivcg` with main
+at 1.0.0b21.2 merged in, harness only; CI compiled and smoke-tested the Windows and browser builds on the branch; released at the owner's
+word the same day, a pre-release, squashed onto main as one commit; the strips' frames that showed the old cards were taken again: the
+first of `preview_catacomb_items.png` and `_shrine.png`, the second of `_portraits.png`, the third of `_play.png`). *The candles* (they could not find the skeletons' portrait): a portrait's candles are cold till its tapestry
 may come down (`por_lit`: `por_can_draw` or `por_is_drawn`), so a lit candle by a tapestry still hung says there is one to draw back;
 cold, `por_hang` gives it no light and no glow, and the art draws no flame (`PortraitView.unlit`, `BossPortraitView.unlit`; `g_unlit` in
 `crawl_portrait.c`: the wicks bare, the hung lamp's glass dark, no smoke). The debug line `PORTRAITS hung` marks a cold one `c`. Her

diff --git a/docs/PLAN-portraits.md b/docs/PLAN-portraits.md
@@ -536,4 +536,5 @@ face). The plot's stones stand in rows 22 and 24, so nothing stands before them.
   ledge's smoke gone). Once drawn back it stays lit. The layouts are dealt as before, so nothing else moves. The dream from level 1 for
   2,400 s is still line for line 1.0.0b21.1's. In the same round her rooms' cards became a slim prompt and a ware's buying a screen of
   its own (CLAUDE.md, *After 1.0.0b21.2*), and the portraits' band with them: *E DRAW BACK THE TAPESTRY*, *A TAPESTRY: NONE OF ITS
-  KIND SLAIN*, or its name in its highest rank's colour with *$300 WAITS*.
+  KIND SLAIN*, or its name in its highest rank's colour with *$300 WAITS*. Released as **1.0.0b21.3**, "Her Wares, Weighed", at the
+  owner's word the same day.
